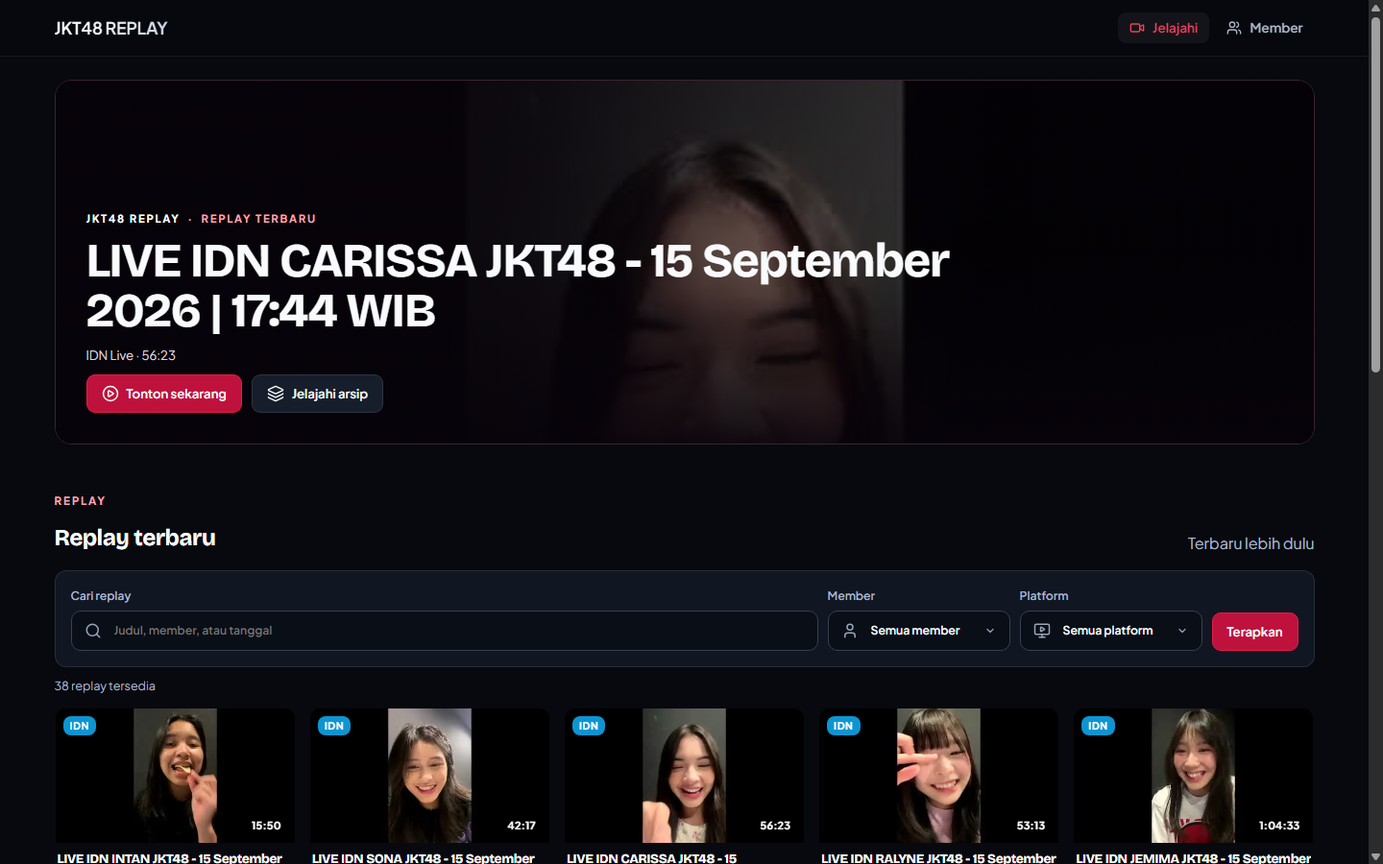
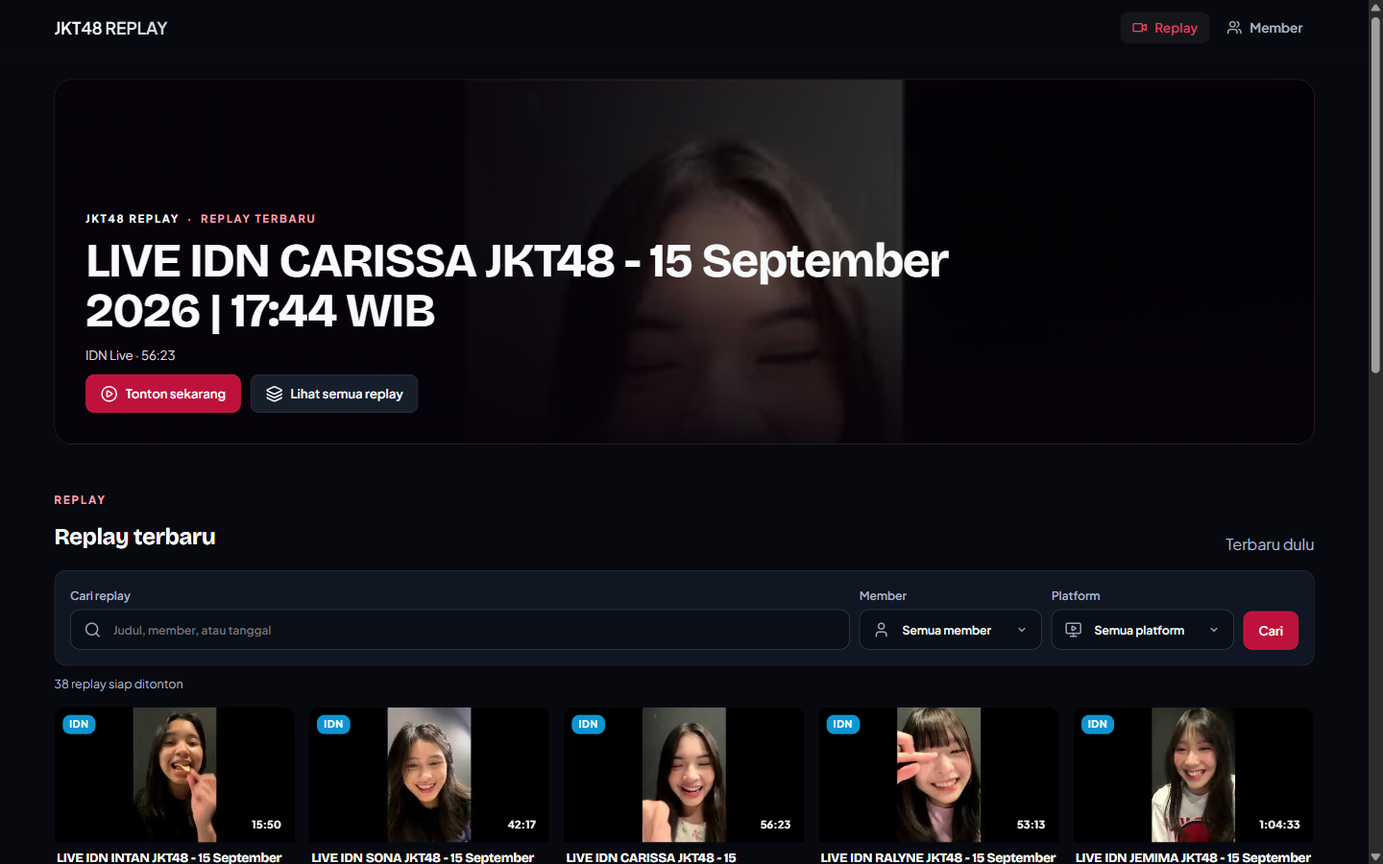
Segarkan bahasa UI: sapaan "kamu", istilah replay/tayang, copy lebih ramah
- Hero, navbar, footer, katalog, member, tentang, watch, countdown, modal
  Telegram, dan halaman admin ditulis ulang ke nada santai khas fandom.
- "Anda" dihapus dari UI publik; istilah "rekaman"/"siaran ulang" dan
  "terbit/unggah" diganti "replay"/"tayang/rilis" (admin ikut diseragamkan).
- Ringkasan "N replay siap ditonton", empty state "Belum ada replay yang
  cocok", tombol filter "Cari", hero "BARU RILIS"/"Lihat semua replay".
- Metadata SEO (title + description) dan og:description watch ikut disegarkan.
- verify/home-upcoming-grid.mjs + verify/portal-browser-check.mjs mengikuti teks
  baru, plus penjaga anti-regresi /\bAnda\b/ dan /siaran ulang/i di halaman publik;
  uji hero menunggu gambar latar termuat (maks 5 detik) supaya tidak flake.

diff --git a/web/components/PublicCatalog.tsx b/web/components/PublicCatalog.tsx
@@ -25,8 +25,8 @@ export default async function PublicCatalog({ searchParams }: { searchParams: Pr
   // Spotlight hero: replay terbit terbaru — diambil dari baris pertama hasil
   // getAllVideos halaman 1 TANPA filter, sehingga nol query tambahan. Hero
   // hanya tampil di halaman depan tanpa filter: saat pengunjung memakai
-  // filter/pencarian/halaman 2+, panel hero (dan teksnya) tidak dirender sama
-  // sekali supaya banner tidak menampilkan replay yang tidak sesuai hasil.
+  // filter/pencarian/halaman 2+, panel hero tidak dirender sama sekali supaya
+  // banner tidak menampilkan replay yang tidak sesuai hasil.
   // Judul hero sekaligus jadi h1 halaman; saat hero tidak ada, h1 diambil alih
   // judul section katalog.
   const hero = !filtered && result.page === 1 ? result.videos[0] : undefined;
@@ -34,10 +34,10 @@ export default async function PublicCatalog({ searchParams }: { searchParams: Pr
   const catalogHeading = filtered ? 'Hasil pencarian' : 'Replay terbaru';
   return <div className="public-catalog">
     {hero ? <section className="container catalog-hero-block"><HeroSpotlight video={hero} watchUrl={heroWatchUrl} /></section> : null}
-    <section className="container page-section" id="catalog"><header className="section-heading"><div><p className="eyebrow">REPLAY</p>{hero ? <h2>{catalogHeading}</h2> : <h1>{catalogHeading}</h1>}</div><p>Terbaru lebih dulu</p></header>
-      <form action="/#catalog" method="GET" className="catalog-filters"><label className="catalog-search">Cari replay<span className="input-with-icon"><Search size={18} aria-hidden="true" /><input name="q" type="search" id="catalog-search-input" defaultValue={q} maxLength={100} placeholder="Judul, member, atau tanggal" /></span></label><label className="catalog-select">Member<span className="select-with-icon"><User size={18} aria-hidden="true" /><select name="member" defaultValue={member}><option value="">Semua member</option>{member && !members.some(m => m.username === member) && <option value={member}>{member}</option>}{members.map(m => <option value={m.username} key={m.username}>{m.display_name}</option>)}</select></span></label><label className="catalog-select">Platform<span className="select-with-icon"><MonitorPlay size={18} aria-hidden="true" /><select name="platform" defaultValue={platform}><option value="">Semua platform</option><option value="idn">IDN Live</option><option value="showroom">Showroom</option></select></span></label><div className="filter-actions"><button className="primary-button">Terapkan</button>{filtered && <Link href="/#catalog" className="text-button">Reset</Link>}</div></form>
-      <p className="result-summary">{result.total} replay tersedia{upcoming.length > 0 ? ` (+${upcoming.length} segera hadir)` : ''}{q && <> untuk “{q}”</>}</p>
-      {merged.length ? <div className="video-grid" id="main-video-grid">{merged.map(video => <VideoCard key={video.youtube_video_id} video={video} />)}</div> : <div className="empty-state"><PlayCircle size={40} aria-hidden="true" /><h2>{filtered ? 'Replay tidak ditemukan' : 'Arsip masih kosong'}</h2><p>{filtered ? 'Coba kata kunci lain, atau reset filter.' : 'Replay yang sudah terbit akan tampil di sini.'}</p>{(filtered || result.page > 1) && <Link className="secondary-button" href="/#catalog">Lihat semua replay</Link>}</div>}
+    <section className="container page-section" id="catalog"><header className="section-heading"><div><p className="eyebrow">REPLAY</p>{hero ? <h2>{catalogHeading}</h2> : <h1>{catalogHeading}</h1>}</div><p>Terbaru dulu</p></header>
+      <form action="/#catalog" method="GET" className="catalog-filters"><label className="catalog-search">Cari replay<span className="input-with-icon"><Search size={18} aria-hidden="true" /><input name="q" type="search" id="catalog-search-input" defaultValue={q} maxLength={100} placeholder="Judul, member, atau tanggal" /></span></label><label className="catalog-select">Member<span className="select-with-icon"><User size={18} aria-hidden="true" /><select name="member" defaultValue={member}><option value="">Semua member</option>{member && !members.some(m => m.username === member) && <option value={member}>{member}</option>}{members.map(m => <option value={m.username} key={m.username}>{m.display_name}</option>)}</select></span></label><label className="catalog-select">Platform<span className="select-with-icon"><MonitorPlay size={18} aria-hidden="true" /><select name="platform" defaultValue={platform}><option value="">Semua platform</option><option value="idn">IDN Live</option><option value="showroom">Showroom</option></select></span></label><div className="filter-actions"><button className="primary-button">Cari</button>{filtered && <Link href="/#catalog" className="text-button">Reset</Link>}</div></form>
+      <p className="result-summary">{result.total} replay siap ditonton{upcoming.length > 0 ? ` (+${upcoming.length} segera hadir)` : ''}{q && <> untuk “{q}”</>}</p>
+      {merged.length ? <div className="video-grid" id="main-video-grid">{merged.map(video => <VideoCard key={video.youtube_video_id} video={video} />)}</div> : <div className="empty-state"><PlayCircle size={40} aria-hidden="true" /><h2>{filtered ? 'Belum ada replay yang cocok' : 'Arsipnya masih kosong'}</h2><p>{filtered ? 'Coba kata kunci lain atau ubah filternya.' : 'Replay yang sudah tayang bakal muncul di sini.'}</p>{(filtered || result.page > 1) && <Link className="secondary-button" href="/#catalog">Lihat semua replay</Link>}</div>}
       {(result.totalPages > 1 || result.page > 1) && <nav className="pagination" aria-label="Halaman katalog">{result.page > 1 ? <Link className="secondary-button" href={pageUrl(result.page - 1)}>← Sebelumnya</Link> : <span /> }<span>Halaman {result.page} / {result.totalPages}</span>{result.page < result.totalPages ? <Link className="secondary-button" href={pageUrl(result.page + 1)}>Berikutnya →</Link> : <span />}</nav>}
     </section>
   </div>;

diff --git a/web/app/admin/publications/page.tsx b/web/app/admin/publications/page.tsx
@@ -16,7 +16,7 @@ export default function PublicationsPage() {
   useEffect(() => {
     const controller = new AbortController();
     fetch(`/api/admin/publications?q=${encodeURIComponent(query)}&page=${page}`, { cache: 'no-store', signal: controller.signal })
-      .then(async res => { if (res.status === 401) router.replace('/login'); if (!res.ok) throw new Error('Gagal memuat rekaman.'); return res.json(); })
+      .then(async res => { if (res.status === 401) router.replace('/login'); if (!res.ok) throw new Error('Gagal memuat replay.'); return res.json(); })
       .then(data => { setVideos(data.videos); setMore(data.hasMore); setAutoHours(data.autoPublishAfterHours ?? 0); })
       .catch(e => { if (e.name !== 'AbortError') setMessage(e.message); })
       .finally(() => { if (!controller.signal.aborted) setLoading(false); });
@@ -27,11 +27,11 @@ export default function PublicationsPage() {
     if (v.decided && !v.published) return 'Ditahan manual';
     if (v.platform === 'showroom') return 'Otomatis (Showroom langsung)';
     if (v.visible) return `Otomatis (lewat ${autoHours} jam)`;
-    return 'Menunggu waktu rilis';
+    return 'Menunggu jam tayang';
   };
   async function toggle(video: Publication) {
     const nextPublished = !video.visible;
-    if (!window.confirm(nextPublished ? 'Pastikan konten ini diizinkan untuk publik. Terbitkan rekaman?' : 'Tarik rekaman ini dari seluruh halaman publik?')) return;
+    if (!window.confirm(nextPublished ? 'Konten ini boleh tayang publik? Terbitkan sekarang?' : 'Tarik replay ini dari semua halaman publik?')) return;
     setBusy(true); setMessage('');
     try {
       const res = await fetch('/api/admin/publications', { method: 'POST', headers: { 'Content-Type': 'application/json' }, body: JSON.stringify({ youtube_video_id: video.youtube_video_id, published: nextPublished }) });
@@ -42,13 +42,13 @@ export default function PublicationsPage() {
     } catch (e) { setMessage(e instanceof Error ? e.message : 'Koneksi gagal.'); }
     finally { setBusy(false); }
   }
-  return <section><div className="section-heading"><div><p className="eyebrow">KURASI ARSIP</p><h1>Publikasi</h1><p>{autoHours > 0 ? `Rekaman IDN tampil otomatis ${autoHours} jam setelah live selesai; rekaman Showroom langsung tampil. Anda tetap bisa menerbitkan lebih cepat atau menahannya.` : 'Rekaman IDN baru tersembunyi sampai Anda menyetujuinya; rekaman Showroom langsung tampil.'}</p></div></div>
-    <p className="notice">Hanya terbitkan konten yang memiliki izin distribusi publik. Status unlisted YouTube bukan persetujuan publikasi.</p>
-    <form className="form-row" onSubmit={e => { e.preventDefault(); setRevision(r => r + 1); setLoading(true); setMessage(''); setPage(1); setQuery(String(new FormData(e.currentTarget).get('q') || '')); }}><label>Cari rekaman<input name="q" type="search" maxLength={100} placeholder="Judul atau member" /></label><button className="secondary-button">Cari</button></form>
+  return <section><div className="section-heading"><div><p className="eyebrow">KURASI ARSIP</p><h1>Publikasi</h1><p>{autoHours > 0 ? `Replay IDN tayang otomatis ${autoHours} jam setelah live selesai; replay Showroom langsung tayang. Kamu tetap bisa terbitkan lebih cepat atau menahannya.` : 'Replay IDN masih tersembunyi sampai kamu setujui; replay Showroom langsung tayang.'}</p></div></div>
+    <p className="notice">Terbitkan hanya konten yang memang boleh dibagikan publik. Status unlisted di YouTube bukan berarti otomatis boleh tayang di sini.</p>
+    <form className="form-row" onSubmit={e => { e.preventDefault(); setRevision(r => r + 1); setLoading(true); setMessage(''); setPage(1); setQuery(String(new FormData(e.currentTarget).get('q') || '')); }}><label>Cari replay<input name="q" type="search" maxLength={100} placeholder="Judul atau member" /></label><button className="secondary-button">Cari</button></form>
     <div role="status" aria-live="polite">{message && <p className="notice">{message}</p>}</div>
-    <div className="panel table-scroll"><table className="admin-table"><caption className="sr-only">Persetujuan publikasi rekaman</caption><thead><tr><th>Rekaman</th><th>Visibilitas situs</th><th>Tindakan</th></tr></thead><tbody>
+    <div className="panel table-scroll"><table className="admin-table"><caption className="sr-only">Persetujuan publikasi replay</caption><thead><tr><th>Replay</th><th>Tampil di situs</th><th>Aksi</th></tr></thead><tbody>
       {!loading && videos.map(v => <tr key={v.youtube_video_id}><td><strong>{v.title}</strong><br /><span className="help-text">{v.member_name}</span><br /><span className="help-text">{v.hours_since_end === null ? 'Waktu tidak diketahui' : `${Math.floor(v.hours_since_end)} jam sejak live selesai`}</span><br /><a href={`https://www.youtube.com/watch?v=${v.youtube_video_id}`} target="_blank" rel="noopener noreferrer">Tinjau di YouTube ↗</a></td><td><span className={`visibility-badge ${v.visible ? 'published' : ''}`}>{v.visible ? 'Publik' : 'Tersembunyi'}</span><br /><span className="help-text">{label(v)}</span></td><td><button className="secondary-button" disabled={busy} onClick={() => toggle(v)}>{v.visible ? 'Tarik publikasi' : 'Terbitkan'}</button></td></tr>)}
-    </tbody></table><p className="help-text">{loading ? 'Memuat rekaman…' : videos.length === 0 ? 'Tidak ada rekaman ditemukan.' : ''}</p></div>
+    </tbody></table><p className="help-text">{loading ? 'Memuat replay…' : videos.length === 0 ? 'Belum ada replay yang cocok.' : ''}</p></div>
     <nav className="pagination" aria-label="Halaman publikasi"><button className="secondary-button" disabled={page === 1 || loading || busy} onClick={() => { setLoading(true); setPage(p => p - 1); }}>Sebelumnya</button><span>Halaman {page}</span><button className="secondary-button" disabled={!more || loading || busy} onClick={() => { setLoading(true); setPage(p => p + 1); }}>Berikutnya</button></nav>
   </section>;
 }

diff --git a/web/app/about/page.tsx b/web/app/about/page.tsx
@@ -1,9 +1,9 @@
 import type { Metadata } from 'next';
 export const metadata: Metadata = { title: 'Tentang & Privasi' };
 export default function AboutPage() {
-  return <article className="container page-section prose"><p className="eyebrow">TENTANG SITUS</p><h1>Arsip untuk komunitas</h1><p>JKT48 Replay adalah arsip komunitas untuk menonton ulang live JKT48. Situs ini tidak berafiliasi dengan JKT48, IDN, Showroom, atau YouTube. Hak atas konten tetap dimiliki pemiliknya.</p>
-    <section className="panel"><h2>Apa yang tersedia di sini?</h2><p>Halaman publik menampilkan replay yang sudah disetujui pengelola: judul, member, platform, tanggal, dan thumbnail. Selesainya proses unggah tidak otomatis membuat replay terbit — pengelola bisa menerbitkan lebih cepat atau menahannya.</p></section>
-    <section className="panel"><h2>Privasi & layanan pihak ketiga</h2><p>Anda tidak perlu akun untuk menjelajahi arsip. Pemutar dan thumbnail menggunakan layanan YouTube, sehingga browser dapat mengirim alamat IP dan informasi perangkat ke penyedia tersebut. Font situs ini disajikan dari server sendiri (self-hosted), jadi tidak ada permintaan ke penyedia font pihak ketiga. Pemutaran video tunduk pada kebijakan YouTube.</p><p>Cookie sesi digunakan hanya untuk login pengelola. Pencarian tersimpan di URL dan dapat tercatat dalam riwayat browser serta log akses server.</p></section>
-    <section className="panel"><h2>Hak konten</h2><p>Publikasi di situs tidak mengalihkan hak cipta. Untuk laporan pelanggaran pada video, gunakan fasilitas pelaporan YouTube melalui tautan video terkait. Penarikan dari arsip tidak menghapus video dari platform asal.</p></section>
+  return <article className="container page-section prose"><p className="eyebrow">TENTANG SITUS</p><h1>Arsip yang dibuat fans, untuk fans</h1><p>JKT48 Replay adalah arsip komunitas untuk nonton ulang live JKT48. Situs ini bukan situs resmi dan tidak berafiliasi dengan JKT48, IDN, Showroom, maupun YouTube — hak atas kontennya tetap milik pemiliknya.</p>
+    <section className="panel"><h2>Apa saja yang ada di sini?</h2><p>Di halaman publik kamu bisa melihat replay yang sudah lolos kurasi: judul, member, platform, tanggal, dan thumbnail-nya. Selesai di-upload belum berarti replay langsung tayang — pengelola yang memutuskan, dan bisa menerbitkan lebih cepat atau menahannya.</p></section>
+    <section className="panel"><h2>Privasi & layanan pihak ketiga</h2><p>Kamu tidak perlu bikin akun untuk menjelajah arsip. Pemutar video dan thumbnail di sini datang dari YouTube, jadi browser kamu bisa mengirim alamat IP dan informasi perangkat ke mereka. Font situs ini kami simpan sendiri (self-hosted), sehingga tidak ada permintaan ke penyedia font pihak ketiga. Urusan pemutaran video ikut aturan YouTube.</p><p>Cookie sesi dipakai hanya untuk login pengelola. Kata kunci pencarian tersimpan di URL, jadi bisa ikut tercatat di riwayat browser kamu dan di log akses server.</p></section>
+    <section className="panel"><h2>Soal hak cipta</h2><p>Menampilkan video di sini tidak memindahkan hak ciptanya. Kalau ada video yang bermasalah, laporkan lewat fitur pelaporan YouTube pada video terkait. Menarik video dari arsip di sini juga tidak menghapusnya dari platform aslinya.</p></section>
   </article>;
 }

diff --git a/web/components/MemberDirectory.tsx b/web/components/MemberDirectory.tsx
@@ -3,14 +3,14 @@ import type { Metadata } from 'next';
 import { Search } from 'lucide-react';
 import { getPublicMembers } from '@/lib/db';
 export const dynamic = 'force-dynamic';
-export const metadata: Metadata = { title: 'Member', description: 'Temukan replay berdasarkan member favorit Anda.' };
+export const metadata: Metadata = { title: 'Member', description: 'Cari replay dari member favoritmu.' };
 export default async function MemberDirectory({ searchParams }: { searchParams: Promise<{ q?: string }> }) {
   const { q = '' } = await searchParams;
   const members = getPublicMembers().filter(m => `${m.display_name} ${m.username}`.toLowerCase().includes(q.toLowerCase()));
-  return <div className="container page-section"><header className="section-heading"><div><p className="eyebrow">DIREKTORI MEMBER</p><h1>Temukan member favoritmu</h1><p>Pilih member untuk melihat semua replay-nya.</p></div></header>
+  return <div className="container page-section"><header className="section-heading"><div><p className="eyebrow">DAFTAR MEMBER</p><h1>Temukan member favoritmu</h1><p>Klik membernya buat lihat semua replay-nya.</p></div></header>
     <form className="catalog-filters" action="/members"><label className="catalog-search">Cari member<span className="input-with-icon"><Search size={18} aria-hidden="true" /><input type="search" name="q" defaultValue={q} placeholder="Nama atau username" maxLength={100} /></span></label><div className="filter-actions"><button className="primary-button">Cari</button>{q && <Link className="secondary-button" href="/members">Reset</Link>}</div></form>
-    <p className="result-summary">{members.length} member punya replay terbit</p>
+    <p className="result-summary">{members.length} member punya replay di arsip</p>
     <div className="members-grid" id="members-list-grid">{members.map(m => <Link key={m.username} href={`/?member=${encodeURIComponent(m.username)}#catalog`} className="member-card"><span className="member-initial" aria-hidden="true">{m.display_name.slice(0, 2).toUpperCase()}</span><div><h2 className="member-card-title">{m.display_name}</h2><p className="member-card-username">@{m.username}</p></div><div className="member-card-stats">{m.video_count} replay <span aria-hidden="true">↗</span></div></Link>)}</div>
-    {members.length === 0 && <div className="empty-state"><h2>Belum ada member ditemukan</h2><p>Coba nama lain, atau lihat semua member.</p><Link className="secondary-button" href="/">Jelajahi replay</Link></div>}
+    {members.length === 0 && <div className="empty-state"><h2>Membernya belum ketemu</h2><p>Coba nama lain atau lihat semua member.</p><Link className="secondary-button" href="/">Lihat semua replay</Link></div>}
   </div>;
 }

diff --git a/web/app/admin/status/page.tsx b/web/app/admin/status/page.tsx
@@ -4,9 +4,9 @@ import { getSystemStats, type ActiveSession, type YouTubeChannelStat } from '@/l
 export default async function SystemPage() {
   if (!(await isAdmin())) redirect('/login');
   const stats = getSystemStats();
-  return <section><div className="section-heading"><div><p className="eyebrow">OPERASIONAL · PRIVATE</p><h1>Sistem & antrean</h1><p>Snapshot dari database saat halaman dibuka. Bukan indikator kesehatan proses bot.</p></div></div>
+  return <section><div className="section-heading"><div><p className="eyebrow">OPERASIONAL · PRIVATE</p><h1>Sistem & antrean</h1><p>Data diambil dari database saat halaman ini dibuka — bukan penanda bot sedang jalan atau tidak.</p></div></div>
     <div className="metric-grid"><div className="panel"><span>Sesi dalam proses</span><strong>{stats.active_sessions.length}</strong></div><div className="panel"><span>Menunggu upload</span><strong>{stats.pending_uploads_count}</strong></div><div className="panel"><span>Member dipantau</span><strong>{stats.members_count.active}</strong></div></div>
-    <div className="panel table-scroll"><h2>Sesi aktif</h2><table className="admin-table"><thead><tr><th>Member</th><th>Tahap pemrosesan</th></tr></thead><tbody>{stats.active_sessions.map((s: ActiveSession) => <tr key={s.id}><td>{s.display_name}</td><td>{s.status}</td></tr>)}</tbody></table>{stats.active_sessions.length === 0 && <p className="help-text">Tidak ada sesi dalam proses.</p>}</div>
+    <div className="panel table-scroll"><h2>Sesi aktif</h2><table className="admin-table"><thead><tr><th>Member</th><th>Tahap pemrosesan</th></tr></thead><tbody>{stats.active_sessions.map((s: ActiveSession) => <tr key={s.id}><td>{s.display_name}</td><td>{s.status}</td></tr>)}</tbody></table>{stats.active_sessions.length === 0 && <p className="help-text">Belum ada sesi yang sedang berjalan.</p>}</div>
     <div className="panel table-scroll"><h2>Channel upload</h2><table className="admin-table"><thead><tr><th>Label</th><th>Upload hari ini</th><th>Reset terakhir</th></tr></thead><tbody>{stats.youtube_channels.map((c: YouTubeChannelStat) => <tr key={c.id}><td>{c.label}</td><td>{c.uploads_today}</td><td>{c.last_reset || 'Belum tersedia'}</td></tr>)}</tbody></table>{stats.youtube_channels.length === 0 && <p className="help-text">Belum ada channel tersedia.</p>}</div>
   </section>;
 }

diff --git a/web/components/HeroSpotlight.tsx b/web/components/HeroSpotlight.tsx
@@ -15,9 +15,9 @@ import type { VideoItem } from '@/lib/db';
  * Judul memakai judul replay apa adanya (`buildDisplayTitle` → "LIVE IDN
  * <MEMBER> - <tanggal> | <jam> WIB") sehingga banner selalu membawa informasi
  * nyata (member + tanggal + jam), bukan semboyan pemasaran. Kicker mengabarkan
- * status: BARU TERBIT / REPLAY TERBARU / SEGERA HADIR.
+ * status: BARU RILIS / REPLAY TERBARU / SEGERA HADIR.
  *
- * Satu aksi utama ("Tonton sekarang") + satu aksi sekunder ("Jelajahi arsip"),
+ * Satu aksi utama ("Tonton sekarang") + satu aksi sekunder ("Lihat semua replay"),
  * memakai kelas tombol yang sudah ada supaya tidak ada istilah/gaya baru.
  */
 export default function HeroSpotlight({ video, watchUrl }: { video: VideoItem; watchUrl: string }) {
@@ -25,7 +25,7 @@ export default function HeroSpotlight({ video, watchUrl }: { video: VideoItem; w
   const fallback = video.youtube_video_id ? `https://img.youtube.com/vi/${video.youtube_video_id}/hqdefault.jpg` : video.thumbnail_url;
   const [src, setSrc] = useState(maxres || fallback);
   const pending = video.is_visible === false;
-  const kicker = pending ? 'SEGERA HADIR' : video.is_new ? 'BARU TERBIT' : 'REPLAY TERBARU';
+  const kicker = pending ? 'SEGERA HADIR' : video.is_new ? 'BARU RILIS' : 'REPLAY TERBARU';
   // Member, platform, tanggal, dan jam sudah menempel di judul, jadi baris meta
   // hanya memuat info yang belum ada di judul: label platform + durasi.
   const meta = [video.platform === 'idn' ? 'IDN Live' : 'Showroom', video.duration_formatted].filter(Boolean);
@@ -59,10 +59,10 @@ export default function HeroSpotlight({ video, watchUrl }: { video: VideoItem; w
         {meta.length ? <p className="hero-feature-meta">{meta.join(' · ')}</p> : null}
         <div className="hero-actions">
           <Link href={watchUrl} className="primary-button">
-            <PlayCircle size={18} aria-hidden="true" /> {pending ? 'Lihat hitung mundur' : 'Tonton sekarang'}
+            <PlayCircle size={18} aria-hidden="true" /> {pending ? 'Lihat jadwal tayang' : 'Tonton sekarang'}
           </Link>
           <a className="secondary-button" href="#catalog">
-            <Layers size={18} aria-hidden="true" /> Jelajahi arsip
+            <Layers size={18} aria-hidden="true" /> Lihat semua replay
           </a>
         </div>
       </div>

diff --git a/web/components/TelegramDownloadButton.tsx b/web/components/TelegramDownloadButton.tsx
@@ -58,13 +58,13 @@ export default function TelegramDownloadButton({ youtubeVideoId, title }: Props)
         <div
           role="dialog"
           aria-modal="true"
-          aria-label="Download via Bot Telegram"
+          aria-label="Download lewat Bot Telegram"
           className="modal-overlay"
           onClick={() => setOpen(false)}
         >
           <div className="modal-card" onClick={(e) => e.stopPropagation()}>
             <div className="modal-header">
-              <h2 className="modal-title">Download via Bot Telegram</h2>
+              <h2 className="modal-title">Download lewat Bot Telegram</h2>
               <button
                 type="button"
                 aria-label="Tutup"
@@ -77,9 +77,9 @@ export default function TelegramDownloadButton({ youtubeVideoId, title }: Props)
             </div>
 
             <p className="modal-body">
-              Video <strong style={{ color: '#fff' }}>{title}</strong> akan dikirim ke kamu
-              lewat bot Telegram resmi kami. Klik tombol di bawah, lalu tekan{' '}
-              <strong>Start</strong> di Telegram — video otomatis terkirim.
+              Video <strong style={{ color: '#fff' }}>{title}</strong> bakal dikirim ke kamu
+              lewat bot Telegram kami. Tekan tombol di bawah, lalu tap{' '}
+              <strong>Start</strong> di Telegram — videonya langsung masuk.
             </p>
 
             {deepLink ? (
@@ -104,12 +104,12 @@ export default function TelegramDownloadButton({ youtubeVideoId, title }: Props)
 
             {launched && !copied && (
               <p className="modal-feedback" role="status">
-                ✓ Mengarahkan ke Telegram… tekan <strong>Start</strong> di aplikasi untuk menerima video.
+                ✓ Membuka Telegram… tap <strong>Start</strong> supaya videonya terkirim.
               </p>
             )}
 
             <p className="modal-hint">
-              Video dikirim sebagai file yang bisa diputar &amp; disimpan dari aplikasi Telegram.
+              Videonya dikirim sebagai file — bisa langsung diputar atau disimpan dari Telegram.
             </p>
           </div>
         </div>

diff --git a/web/app/watch/[id]/page.tsx b/web/app/watch/[id]/page.tsx
@@ -21,18 +21,18 @@ export async function generateMetadata({ params }: WatchPageProps): Promise<Meta
   const { id } = await params;
   const video = getVideoById(id);
   if (!video) {
-    return { title: 'Video Tidak Ditemukan' };
+    return { title: 'Replay tidak ditemukan' };
   }
   return {
     title: `${video.title} - ${video.streamer_name}`,
     description: video.is_visible
-      ? `Tonton replay ${video.title} oleh ${video.streamer_name}. Sumber: ${video.platform === 'idn' ? 'IDN Live' : 'Showroom'}.`
-      : `Replay ${video.title} oleh ${video.streamer_name} segera hadir.`,
+      ? `Nonton replay ${video.title} dari ${video.streamer_name} — ${video.platform === 'idn' ? 'IDN Live' : 'Showroom'}.`
+      : `Replay ${video.title} dari ${video.streamer_name} segera tayang.`,
     // Pra-rilis tidak boleh diindex mesin pencari sampai benar-benar terbit.
     robots: video.is_visible ? undefined : { index: false, follow: false },
     openGraph: {
       title: `${video.title} - ${video.streamer_name}`,
-      description: `Arsip siaran ulang JKT48 Replay`,
+      description: `Replay live JKT48 — IDN & Showroom`,
       images: [video.thumbnail_url],
     },
   };
@@ -126,12 +126,12 @@ export default async function WatchPage({ params }: WatchPageProps) {
         {/* Right Column: Related Videos */}
         <aside>
           <h2 className="sidebar-title">
-            Lainnya dari {video.streamer_name}
+            Replay lain dari {video.streamer_name}
           </h2>
 
           {filteredRelated.length === 0 ? (
             <p style={{ color: 'var(--text-tertiary)', fontSize: '0.88rem' }}>
-              Belum ada replay lain.
+              Belum ada replay lain dari member ini.
             </p>
           ) : (
             <div className="related-list">

diff --git a/web/components/MemberManager.tsx b/web/components/MemberManager.tsx
@@ -56,6 +56,6 @@ export default function MemberManager() {
     <label className="search-field">Cari member<input type="search" value={query} onChange={e => setQuery(e.target.value)} placeholder="Nama atau username" /></label>
     <div className="panel table-scroll"><table className="admin-table"><caption className="sr-only">Pengaturan pemantauan member</caption><thead><tr><th>Member</th><th>Replay terunggah</th><th>Pemantauan</th></tr></thead><tbody>
       {members.filter(m => `${m.username} ${m.display_name}`.toLowerCase().includes(query.toLowerCase())).map(m => <tr key={m.username}><td><strong>{m.display_name}</strong><br /><span className="help-text">@{m.username}</span></td><td>{m.video_count}</td><td><button className="secondary-button" aria-pressed={m.enabled} aria-label={`Pemantauan ${m.display_name}`} disabled={busy} onClick={() => mutate({ action: 'toggle', username: m.username, enabled: !m.enabled })}>{m.enabled ? 'Aktif · Nonaktifkan' : 'Nonaktif · Aktifkan'}</button></td></tr>)}
-    </tbody></table>{loading ? <p className="notice">Memuat member…</p> : members.filter(m => `${m.username} ${m.display_name}`.toLowerCase().includes(query.toLowerCase())).length === 0 && <p className="notice">Tidak ada member ditemukan.</p>}</div>
+    </tbody></table>{loading ? <p className="notice">Memuat member…</p> : members.filter(m => `${m.username} ${m.display_name}`.toLowerCase().includes(query.toLowerCase())).length === 0 && <p className="notice">Membernya belum ada.</p>}</div>
   </section>;
 }

diff --git a/web/app/admin/trial/page.tsx b/web/app/admin/trial/page.tsx
@@ -2,7 +2,7 @@ import type { Metadata } from 'next';
 import VideoPlayer from '@/components/VideoPlayer';
 
 export const metadata: Metadata = {
-  title: 'Ujicoba Pemutar | Admin',
+  title: 'Uji Pemutar | Admin',
   robots: { index: false, follow: false },
 };
 
@@ -38,10 +38,10 @@ export default async function PlayerTrialPage({
       <div className="section-heading">
         <div>
           <p className="eyebrow">ALAT UJI · PRIVATE</p>
-          <h1>Ujicoba pemutar video</h1>
+          <h1>Uji pemutar video</h1>
           <p>
-            Halaman ini hanya untuk menguji tampilan pemutar. Tidak terhubung ke katalog dan tidak
-            dipublikasikan ke pengunjung.
+            Halaman ini cuma buat ngetes tampilan pemutar. Tidak nyambung ke katalog dan tidak
+            dilihat pengunjung.
           </p>
         </div>
       </div>
@@ -103,7 +103,7 @@ export default async function PlayerTrialPage({
       )}
 
       <div className="panel">
-        <h2>Yang bisa disimpulkan dari ujicoba ini</h2>
+        <h2>Catatan dari ujicoba ini</h2>
         <ul className="trial-notes">
           <li>
             Platform <strong>showroom</strong> memakai kelas <code>horizontal-player</code> dan rasio

diff --git a/web/components/LoginForm.tsx b/web/components/LoginForm.tsx
@@ -9,7 +9,7 @@ export default function LoginForm() {
   const [error, setError] = useState('');
   useEffect(() => { localStorage.removeItem('jkt48_admin_secret'); }, []);
   return <section className="login-panel panel"><span className="eyebrow">AKSES TERBATAS</span><h1>Selamat datang kembali</h1>
-    <p>Masuk untuk mengelola member dan publikasi arsip.</p>
+    <p>Masuk buat ngatur member dan publikasi replay.</p>
     <form onSubmit={async e => {
       e.preventDefault(); setBusy(true); setError('');
       try {
@@ -24,6 +24,6 @@ export default function LoginForm() {
       <input id="admin-secret-input" type="password" autoComplete="current-password" required maxLength={1024} value={secret} onChange={e => setSecret(e.target.value)} />
       {error && <p role="alert" className="notice error">{error}</p>}
       <button className="primary-button" disabled={busy}>{busy ? 'Memverifikasi…' : 'Masuk ke Admin Studio'}</button>
-    </form><p className="help-text">Sesi berakhir setelah 8 jam. Jangan bagikan kredensial Anda.</p>
+    </form><p className="help-text">Sesi berakhir sendiri setelah 8 jam. Jangan bagikan password ini ke siapa pun.</p>
   </section>;
 }

diff --git a/web/components/PublicNavbar.tsx b/web/components/PublicNavbar.tsx
@@ -31,7 +31,7 @@ function NavbarInner() {
   return (
     <header className="navbar">
       <div className="container nav-container">
-        <Link href="/" className="brand" aria-label="JKT48 Replay — Beranda">
+        <Link href="/" className="brand" aria-label="JKT48 Replay — halaman utama">
           <span className="brand-title">JKT48 <strong>REPLAY</strong></span>
         </Link>
         <button
@@ -46,7 +46,7 @@ function NavbarInner() {
         </button>
         <nav id="navigasi-utama" className={`nav-menu${open ? ' open' : ''}`} aria-label="Navigasi utama">
           <Link href="/" className={`nav-link ${pathname === '/' ? 'active' : ''}`} aria-current={pathname === '/' ? 'page' : undefined}>
-            <Video size={16} aria-hidden="true" /> Jelajahi
+            <Video size={16} aria-hidden="true" /> Replay
           </Link>
           <Link href="/members" className={`nav-link ${pathname === '/members' ? 'active' : ''}`} aria-current={pathname === '/members' ? 'page' : undefined}>
             <Users size={16} aria-hidden="true" /> Member
